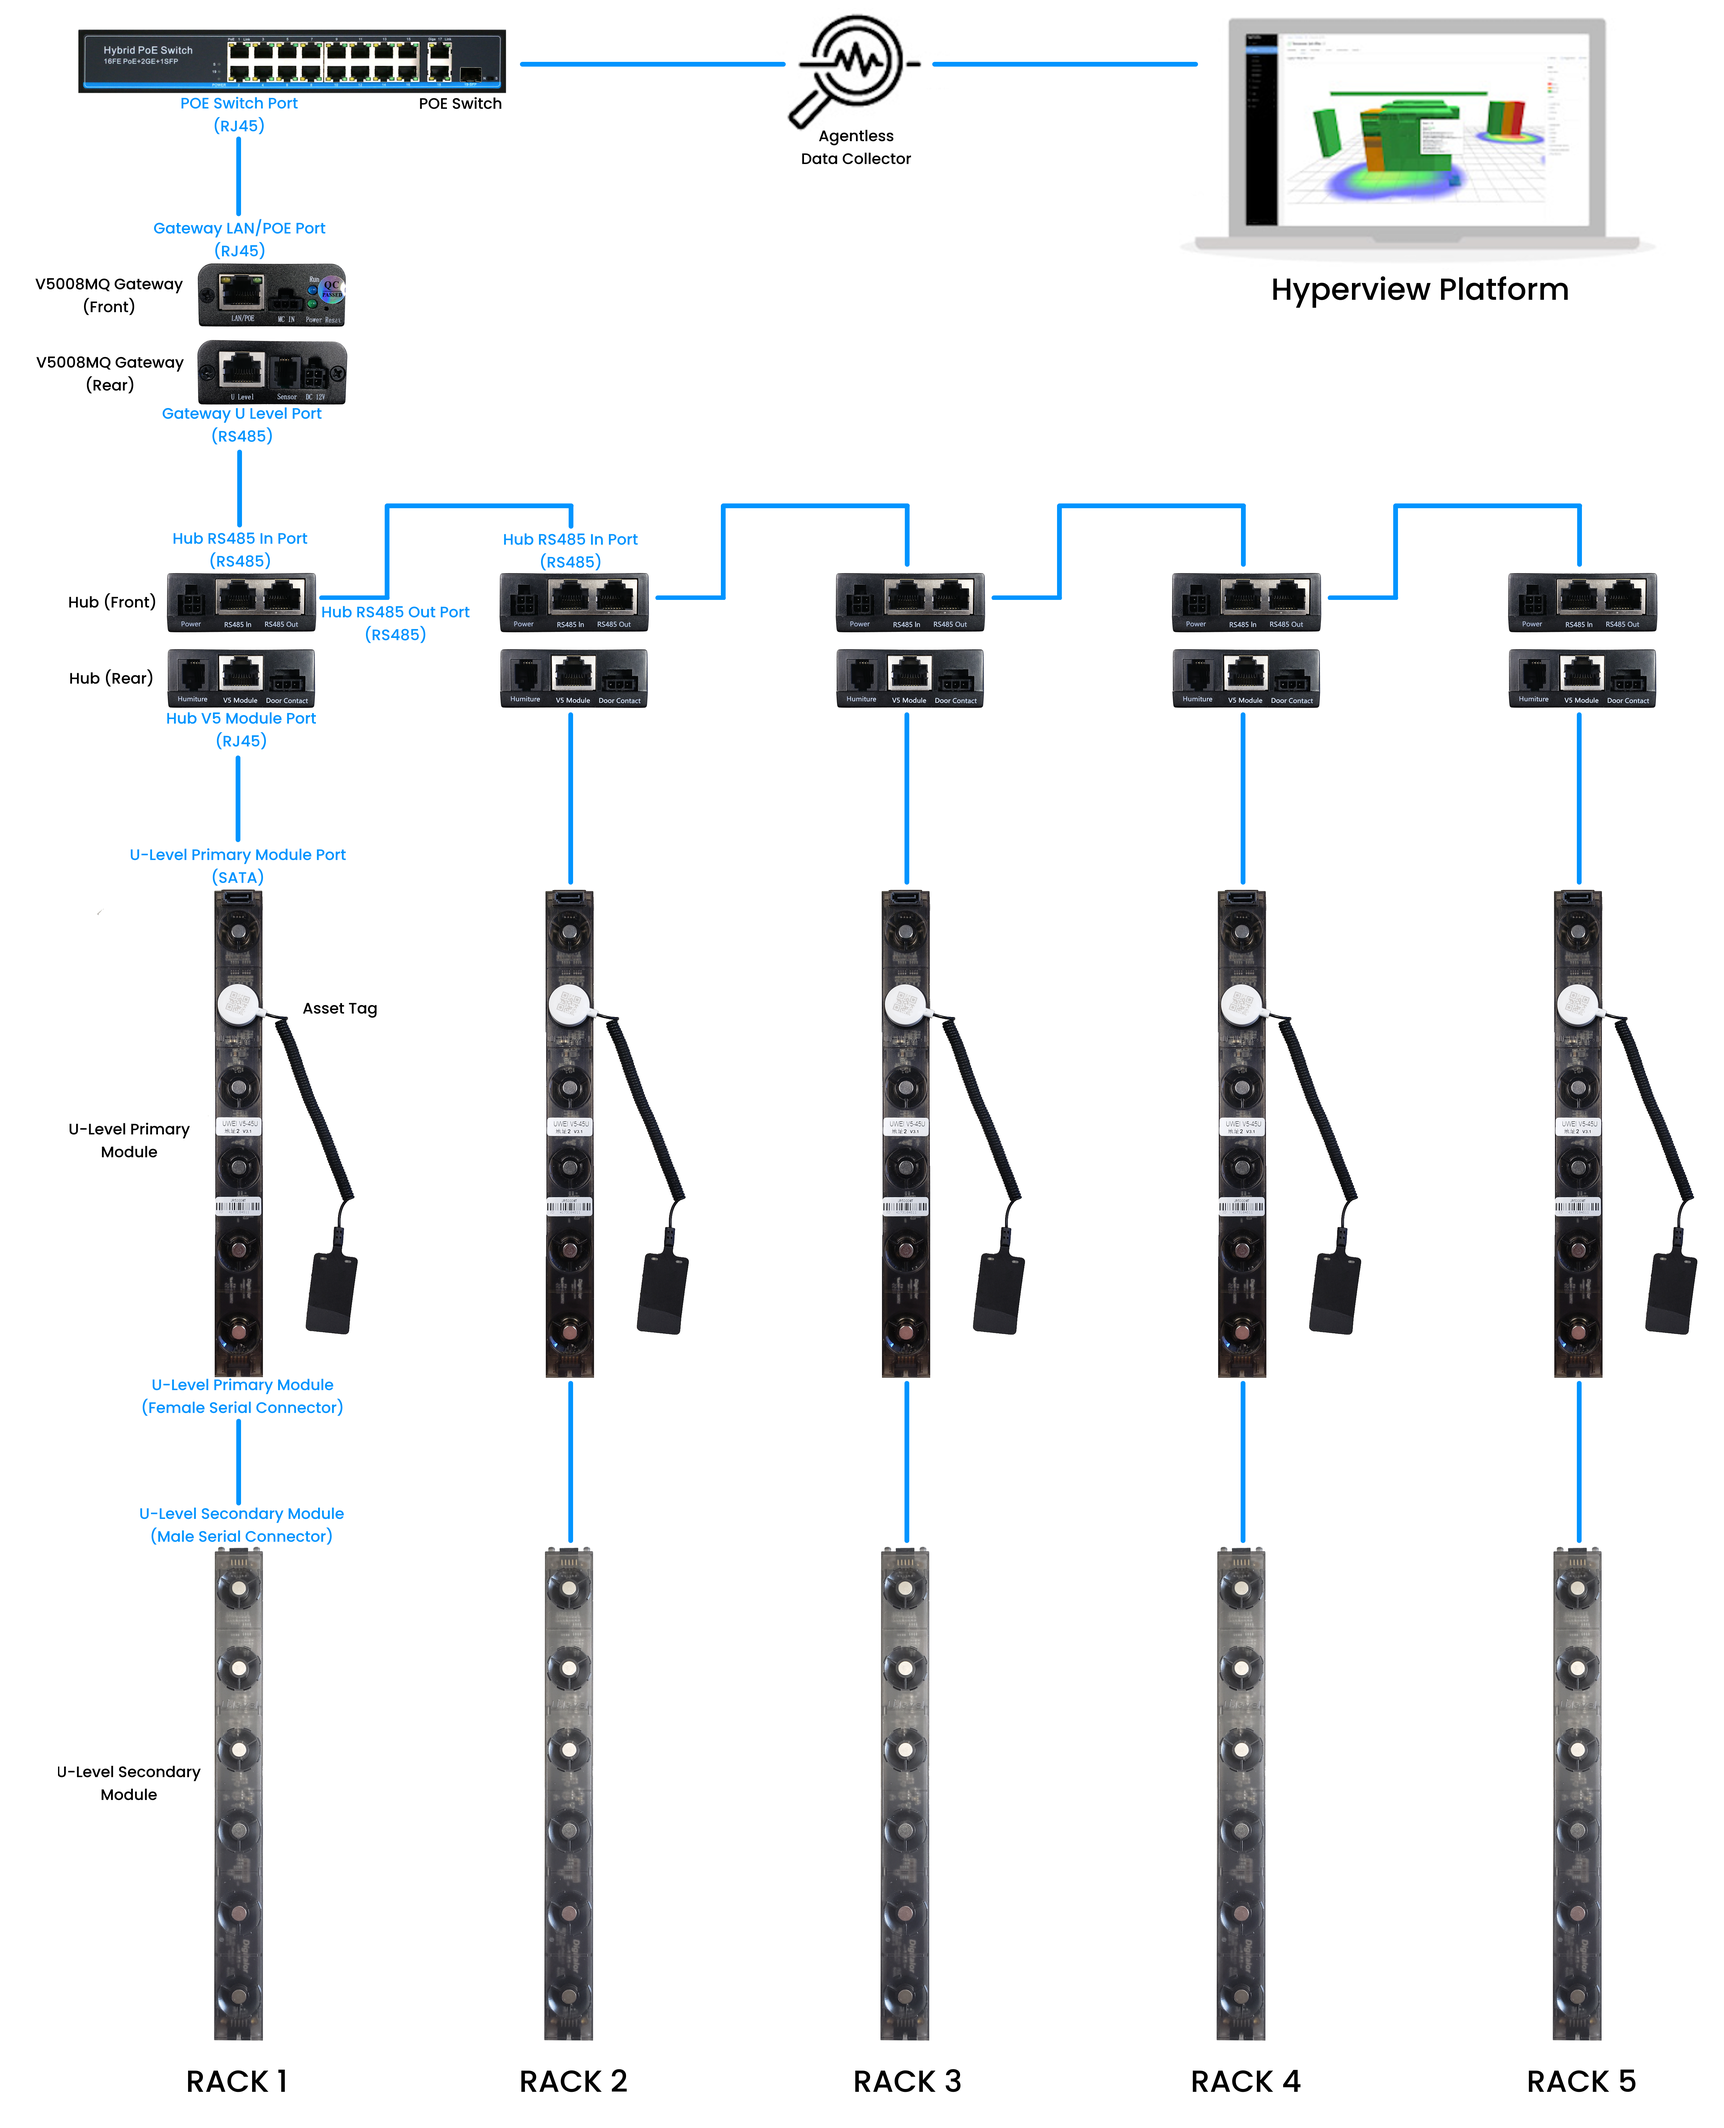
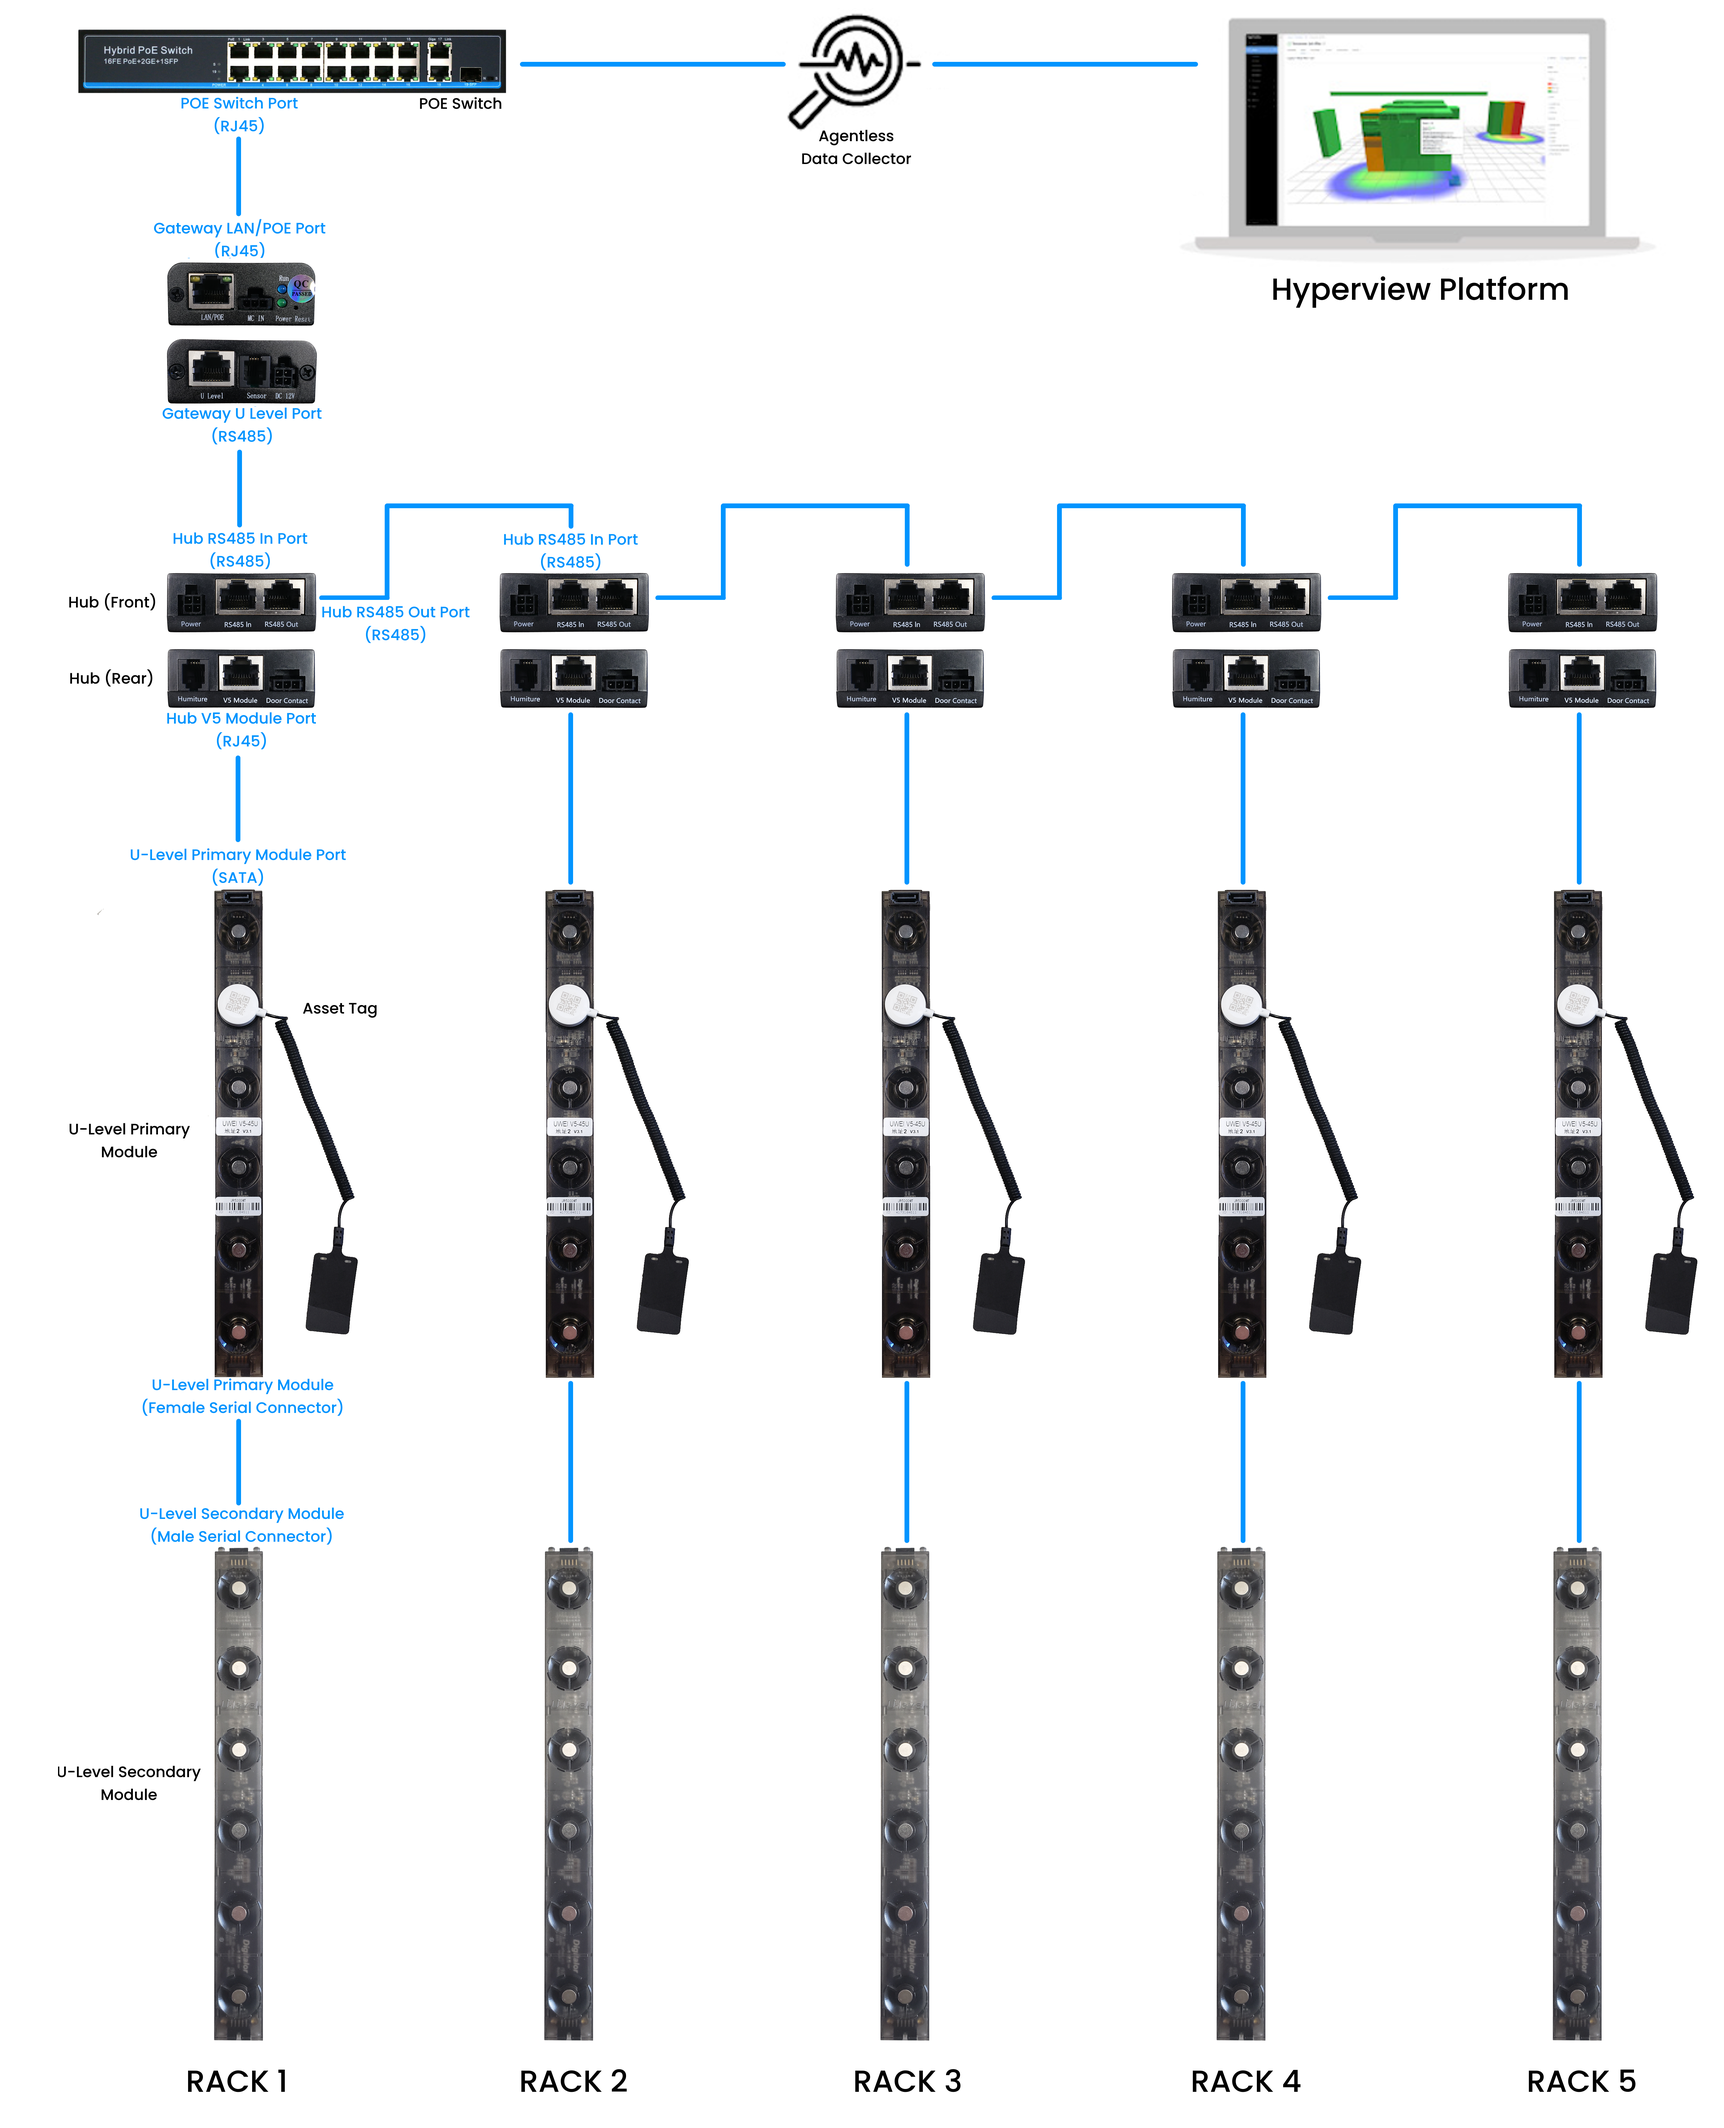
update hardware install instructions

Changed region(s): [[0.0311, 0.1246, 0.2176, 0.1869]]

diff --git a/documentation/asset-tracker/topics/assettracker-hardware.md b/documentation/asset-tracker/topics/assettracker-hardware.md
@@ -12,7 +12,7 @@ Hyperview's automated asset tracking system can be tested and certified on addit
 
 The supported hardware models are:
 
-1. The V5008MQ Smart Gateway (MQTT) running firmware version 3.x
+1. The V5008 AIoT Smart Gateway (MQTT) running firmware version 3.x
 2. The V6800 AIoT Gateway (MQTT) running firmware version 1.x
 
 Please [contact](https://www.hyperviewhq.com/contact/) the Hyperview Sales or Support teams for more information.
@@ -23,9 +23,9 @@ Please [contact](https://www.hyperviewhq.com/contact/) the Hyperview Sales or Su
 
 AssetTracker can be installed in two different configurations:
 
-1. One-to-One: One Expansion Hub to one Gateway (V5008MQ)
-2. Serial Bus: Up to 5 Expansion Hubs to one Gateway (V5008MQ)
-3. One to many: up to 24 Expansion Hubs to one Gateway (V6800)
+1. One-to-One: One Expansion Hub to one Gateway (V5008 AIoT)
+2. Serial Bus: Up to 5 Expansion Hubs to one Gateway (V5008 AIoT)
+3. One to many: up to 24 Expansion Hubs to one Gateway (V6800 AIoT)
 
 ```{figure} /asset-tracker/media/assettracker_diagram2.png
 :alt: AssetTracker deployment diagram 3
@@ -138,8 +138,47 @@ Expansion Hub to Gateway example 1
 Expansion Hub to Gateway example 2
 ```
 
+If applicable,connect the Gateway to a POE power source.
+
 ```{tip}
-If you are installing a multiple Hubs to a single V5008MQ Gateway in a Serial Bus deployment, please use unique Master Module addresses and maintain the length of the assembly under 20 meters (65 feet).
+If you are installing a multiple Hubs to a single V5008 AIoT Gateway in a Serial Bus deployment, please use unique Master Module addresses and maintain the length of the assembly under 20 meters (65 feet).
+```
+
+### Installing Asset Tags
+
+```{image} /asset-tracker/media/asset_tag_1.png
+:alt: Asset Tag
+:class: border-black
+```
+
+- Clean the surface of the asset from dust.
+- Remove the adhesive cover from the asset tag.
+- Attach the asset tag to the asset. Ensure the tag is firmly attached to the asset in a secure location. Avoid air inlets and outlets, asset serial number, identification tags, chassis LCD screens, etc.
+- Connect the magnet of the asset tag to the AssetTracker Strip. Ensure that it is associated to the top-most RU module position for the asset. For example, if you are tagging a 4U device placed between RU 20 and 23, then associate the tag to the RU23 position.
+
+```{figure} /asset-tracker/media/asset_tag_to_asset_tracker_1.png
+:alt: Asset Tag to AssetTracker Strip
+:class: border-black
+
+Asset Tag to AssetTracker Strip
+```
+
+### V5008 AIoT network diagram
+
+```{figure} /asset-tracker/media/v5008_network_diagram_1.png
+:alt: V5008 AIoT network diagram
+:class: border-black
+
+V5008 AIoT network diagram
+```
+
+### V6800 AIoT network diagram
+
+```{figure} /asset-tracker/media/v6800_network_diagram_1.png
+:alt: V6800 AIoT network diagram
+:class: border-black
+
+V6800 AIoT network diagram
 ```
 
 ## Configuring Modules
